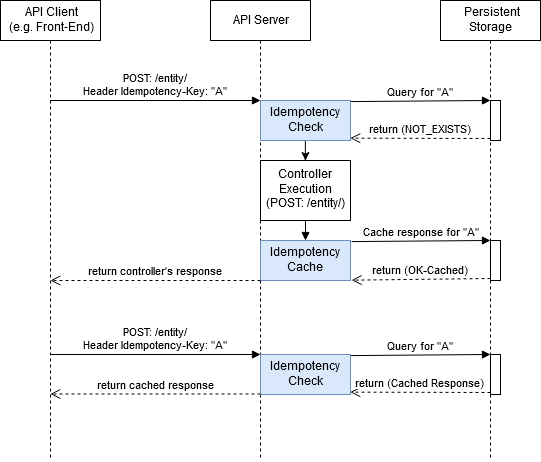
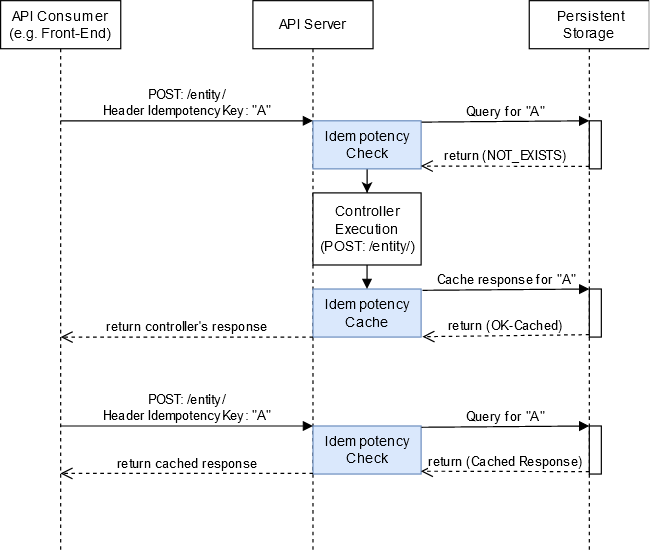
Improve readme file

diff --git a/README.md b/README.md
@@ -1,115 +1,174 @@
-# Idempotent API <sup>BETA</sup>
+# Idempotent API <sup>BETA</sup>
 
-An idempotent HTTP method is a HTTP method that can be called many times without different outcomes. Safe methods are HTTP methods that do not modify resources. Idempotent API is an ASP.NET Core attribute by which any HTTP write operations (POST and PATCH) can have effect only once for the given request data.
+A [distributed system](https://en.wikipedia.org/wiki/Distributed_computing) consists of multiple components located on different networked computers, which communicate and coordinate their actions by passing messages to one another from any system. For example, I am sure that you have heard of the [microservices](https://microservices.io/) architecture, which is a kind of distributed system.
 
-| HTTP Method | Idempotent? | Safe? | Description                                                  |
-| ----------- | ----------- | ----- | ------------------------------------------------------------ |
-| GET         | Yes         | Yes   | The safe HTTP methods do not modify resources. Thus, multiple calls to the resource will always return the same response. |
-| OPTIONS     | Yes         | Yes   | --//--                                                       |
-| HEAD        | Yes         | Yes   | --//--                                                       |
-| PUT         | Yes         | No    | The PUT method is idempotent, as calling the PUT method multiple times will update the same resource and not change the outcome. |
-| DELETE      | Yes         | No    | The DELETE is idempotent because once the resource is deleted, it is gone and calling the method multiple times will not change the outcome |
-| POST        | **No**      | No    | Calling the POST method multiple times can have different results and will result in creating new resources. For that reason, the POST method is **not** idempotent. |
-| PATCH       | **No**      | No    | The PATCH method can be idempotent, but it isn't required to be. For that reason, it is characterized as **non**-idempotent. |
+Creating Web APIs for distributed systems is challenging because of distribution pitfalls such as process failures, communication failures, asynchrony, and concurrency. When building [fault-tolerant distributed applications](https://www.microsoft.com/en-us/research/publication/fault-tolerance-via-idempotence/), one common requirement and challenge is the need to be idempotent.
 
-## How it works
+- In mathematics and computer science, an operation is [idempotent](https://en.wikipedia.org/wiki/Idempotence) when applied multiple times without changing the result beyond the initial application.
+- [Fault-tolerant](https://en.wikipedia.org/wiki/Software_fault_tolerance) applications can continue operating despite the system, hardware, and network faults of one or more components, ensuring [high availability](https://en.wikipedia.org/wiki/High_availability_software) and [business continuity](https://en.wikipedia.org/wiki/Business_continuity_planning) for critical applications or systems.
 
-The API client (e.g. a Front-End website) sends a request including an Idempotency-Key header (default: IdempotencyKey) with a unique-identifier value. The API server checks if that unique-identifier has been used previously for that request and either return the cached response (without further execution) or save-cache the response along with the unique-identifier. The cached response includes the HTTP status code and the response body and headers. 
+Idempotence in Web APIs ensures that the API works correctly (as designed) even when consumers (clients) send the same request multiple times. For example, this case can happen when the API failed to generate the response (due to process failures, temporary downtime, etc.) or because the response was generated but could not be transferred (network issues).
 
-The IdempotentAPI library performs additional validation of the request's hash-key in order to be sure that the cached response is returned for the same combination of IdempotencyKey and Request to prevent accidental misuse.
+Imagine a scenario in which the user clicks a “Pay” button to make a purchase. For unknown reasons, the user receives an error, but the payment was completed. If the user clicks the “Pay” button again or the request is re-sent by a retry library, we would result in two payments! Using idempotency, the user will get a successful message (e.g., on the second try), but only one charge would be performed.
 
-The following image shows an example of the IdempotentAPI library flow for two same POST requests. As shown in this image, IdempotentAPI library includes two additional steps, one prior to the controller's execution and one after the construction of the controller's response.
+Creating Idempotent Web APIs is the first step before using a resilient and transient-fault-handling library, such as [Polly](https://github.com/App-vNext/Polly). The Polly .NET library allows developers to express policies such as Retry, Circuit Breaker, Timeout, Bulkhead Isolation, and Fallback in a fluent and thread-safe manner.
 
-![IdempotentAPI library flow example](./etc/IdempotentAPI_FlowExample.png)
+This article presents an effort to create the IdempotentAPI library, which provides an easy way to develop idempotent Web APIs. In the following sections, we will see the idempotency in the different HTTP methods, how the IdempotentAPI library works, its code, and finally, how to use the IdempotentAPI NuGet package.
 
-### Persistent Storage and Cache Expiration
 
-The unique-identifiers and their responding result are stored in a persistent storage (e.g. database, file, Redis, etc.). Although this mechanism of saving the data can be very useful, if the data is not expired after a certain period of time, it includes unneeded complexity from the perspective of data storage, security and scaling. The data should have a retention period that makes sense for your problem domain.
 
-### Idempotent Clients
+## Idempotency in HTTP (Web)
 
-- An idempotency key is a unique value generated by the client which the server uses to recognize subsequent retries of the same request.
-- It is suggested to use "[V4 UUIDs](https://en.wikipedia.org/wiki/Universally_unique_identifier)" for the creation of the idempotency unique keys.
-- It is recommended to use techniques like [exponential backoff and random jitter](https://aws.amazon.com/blogs/architecture/exponential-backoff-and-jitter/).
+HTTP defines a set of request [methods](https://developer.mozilla.org/en-US/docs/Web/HTTP/Methods) (HTTP verbs: GET, POST, PUT, PATCH, etc.) to indicate the desired action to be performed for a given resource. An idempotent HTTP method can be called many times without resulting in different outcomes. Safe methods are HTTP methods that do not modify the resources. In Table 1, we can see details about which HTTP methods are idempotent or/and safe.
 
-## NuGet package
+Table 1. - Idempotent or/and Safe HTTP methods (verbs).
 
-IdempotentAPI library is available as a NuGet package. The NuGet package can be accessed [here](https://www.nuget.org/packages/IdempotentAPI/).
+| **HTTP Method** | **Idempotent** | **Safe** | **Description**                                              |
+| --------------- | -------------- | -------- | ------------------------------------------------------------ |
+| GET             | Yes            | Yes      | Safe HTTP methods do not modify resources. Thus, multiple calls  with this method will always return the same response. |
+| OPTIONS         | Yes            | Yes      | Same as the previous HTTP method.                            |
+| HEAD            | Yes            | Yes      | Same as the previous HTTP method.                            |
+| PUT             | Yes            | No       | The PUT HTTP method is idempotent because calling this HTTP  method multiple times (with the same request data) will update the same  resource and not change the outcome. |
+| DELETE          | Yes            | No       | The DELETE HTTP method is idempotent because calling this HTTP  method multiple times will only delete the resource once. Thus, numerous  calls of the DELETE HTTP method will not change the outcome. |
+| POST            | **No**         | No       | Calling the POST method multiple times can have different  results and will create multiple resources. For that reason, the POST method  is **not**  idempotent. |
+| PATCH           | **No**         | No       | The PATCH method can be idempotent depending on the  implementation, but it isn’t required to be. For that reason, the PATCH  method is **not**  idempotent. |
 
-## Configuration
+ 
 
-### Register the Distributed Cache (as Persistent Storage)
+The creation of an `idempotent consumer` is an essential factor in HTTP idempotency. The API server would need a way to recognize subsequent retries of the same request. Commonly, the consumer generates a unique value, called [idempotency-key](https://tools.ietf.org/id/draft-idempotency-header-01.html#section-2), which the API server uses for that purpose. In addition, when building an idempotent consumer, it is recommended to:
 
-Register an implementation of IDistributedCache in Startup.ConfigureServices (such as Memory Cache, SQL Server cache, Redis cache, etc.). For more details see the "[Distributed caching in ASP.NET Core](https://docs.microsoft.com/en-us/aspnet/core/performance/caching/distributed)" article.
+- Use "[V4 UUIDs](https://en.wikipedia.org/wiki/Universally_unique_identifier)" for the creation of the idempotency unique keys (e.g. “07cd2d27-e0dc-466f-8193-28453e9c3023”).
+- Use techniques like the [exponential backoff and random jitter](https://aws.amazon.com/blogs/architecture/exponential-backoff-and-jitter/), i.e., including an exponential and random delay between continuous requests.
+
+ 
+
+## The IdempotentAPI Library
+
+The IdempotentAPI is an open-source NuGet library, which implements an ASP.NET Core attribute ([filter](https://www.dotnetnakama.com/blog/creating-and-testing-asp-dotnet-core-filter-attributes/)) to handle the HTTP write operations (POST and PATCH) that can affect only once for the given request data and idempotency-key.
+
+### How IdempotentAPI Works
+
+The API consumer (e.g., a Front-End website) sends a request including an Idempotency-Key header unique identifier (default name: IdempotencyKey). The API server checks if that unique identifier has been used previously for that request and either returns the cached response (without further execution) or save-cache the response along with the unique identifier. The cached response includes the HTTP status code, the response body, and headers.
+
+Storing data is necessary for idempotency, but if the data are not expired after a certain period, it will include unneeded complexity in data storage, security, and scaling. Therefore, the data should have a retention period that makes sense for your problem domain.
+
+The IdempotentAPI library performs additional validation of the request’s hash-key to ensure that the cached response is returned for the same combination of Idempotency-Key and Request to prevent accidental misuse.
+
+The following figure shows an example of the IdempotentAPI library flow for two exact POST requests. As shown, the IdempotentAPI library includes two additional steps, one before the controller’s execution and one after constructing the controller’s response.
+
+![An example of handling two exact POST requests.](./etc/IdempotentAPI_FlowExample.png)
+ 
+
+### The Source Code
+
+Let’s have a quick look at the projects and the main code files.
+
+- **/Core/Idempotency.cs**: The core implementation containing the idempotency logic applied before and after the request’s execution.
+- **/Filters/IdempotencyAttributeFilter.cs**: The filter implementation (of `IActionFilter` and `IResultFilter`) uses the core implementation on specific steps of the filter pipeline execution flow.
+- **/Filters/IdempotencyAttribute.cs**: The idempotency attribute implementation for its input options and to initialize the idempotency filter.
+- **/Helpers/Utils.cs**: Several helper static functions for serialization, hashing, and compression.
+
+
+
+## IdempotentAPI NuGet package
+
+The IdempotentAPI library is available as a [NuGet package](https://www.nuget.org/packages/IdempotentAPI/). This section shows how we could use the NuGet package in a Web API project. For more examples, you can check the [sample projects](https://github.com/ikyriak/IdempotentAPI/tree/master/samples).
+
+### Step 1: Register the Distributed Cache (as Persistent Storage)
+
+As we have seen, storing-caching data is necessary for idempotency. Therefore, the IdempotentAPI library needs an implementation of the `IDistributedCache` to be registered in the `Startup.ConfigureServices` method (such as Memory Cache, SQL Server cache, Redis cache, etc.). For more details about the available framework-provided implementations, see the [Distributed caching in the ASP.NET Core](https://docs.microsoft.com/en-us/aspnet/core/performance/caching/distributed?view=aspnetcore-5.0#establish-distributed-caching-services) article.
 
 ```c#
-// For example, to use memory cache
+// We could use a memory cache for development purposes.
 services.AddDistributedMemoryCache();
 ```
 
-### Mark DTOs as Serializable
+### Step 2: Decorate Response Classes as Serializable
 
-Mark all the response DTOs models as Serializable in order to be cached. For example, see the code below.
+The response Data Transfer Objects (DTOs) need to be serialized before caching. For that reason, we will have to decorate the relative DTOs as `[Serializable]`. For example, see the code below.
 
 ```c#
 using System;
 
-namespace WeatherForecastAPI.Core.Application.Services.DTOs
+namespace WebApi_3_1.DTOs
 {
     [Serializable]
-    public class WeatherForecastModel
+    public class SimpleResponse
     {
-        public DateTime Date { get; set; }
-        public int TemperatureC { get; set; }
-        public string Summary { get; set; }
+        public int Id { get; set; }
+        public string Message { get; set; }
+        public DateTime CreatedOn { get; set; }
     }
 }
-
 ```
 
-#### Configure the API Controllers
 
-In your `Controller` class, add the following using statement and then, choose the Idempotent operations by setting the `Idempotent()` attribute, either on the controller's Class or on each action.
+
+### Step 3: Set Controller Operations as Idempotent
+
+In your `Controller` class, add the following using statement. Then choose which operations should be Idempotent by setting the `[Idempotent()]` attribute, either on the controller’s class or on each action separately. The following two sections describe these two cases.
 
 ```c#
 using IdempotentAPI.Filters;
 ```
 
-##### Using the Idempotent attribute on a Controller's Class
+#### Using the Idempotent Attribute on a Controller’s Class
 
-By using the  Idempotent attribute on the API Controller's Class, `ALL` the POST and PATCH actions will be Idempotent operations (requiring the IdempotencyKey header).
+By using the Idempotent attribute on the API Controller’s Class, `all` the POST and PATCH actions will work as idempotent operations (requiring the IdempotencyKey header).
 
 ```c#
 [ApiController]
 [Route("[controller]")]
-[Idempotent()]
-public class WeatherForecastController : ControllerBase
+[Consumes("application/json")]
+[Produces("application/json")]
+[Idempotent(Enabled = true)]
+public class SimpleController : ControllerBase
 {
-	// ...
+    // ...
 }
 ```
 
-##### Using the Idempotent attribute on a Controller's Action
+ 
 
-By using the Idempotent attribute on the actions that support the HTTP POST or PATCH methods, you can select which specific actions will be Idempotent and also set different options.
+#### Using the Idempotent Attribute on a Controller’s Action
+
+By using the Idempotent attribute on each action (HTTP POST or PATCH), we can choose which of them should be Idempotent. In addition, we could use the Idempotent attribute to set different options per action.
 
 ```c#
 [HttpPost]
 [Idempotent(ExpireHours = 48)]
-public Task<IActionResult> Create([FromBody] WeatherForecast weatherForecastDto)
+ublic IActionResult Post([FromBody] SimpleRequest simpleRequest)
 {
-	// ...
+    // ...
 }
 ```
 
-#### Idempotent Attribute Options
+ 
 
-| Name                       | Type   | Default Value  | Description                                                  |
-| -------------------------- | ------ | -------------- | ------------------------------------------------------------ |
-| Enabled                    | bool   | true           | Enable or Disable the Idempotent operation on an API Controller's class or method. |
-| ExpireHours                | int    | 24             | The retention period of the cached idempotent data.          |
-| HeaderKeyName              | string | IdempotencyKey | The name of the Idempotency-Key header.                      |
-| DistributedCacheKeysPrefix | string | IdempAPI_      | A prefix for the key names that will be used in the DistributedCache. |
+### Idempotent Attribute Options
+
+The Idempotent attribute provides a list of options, as shown in the following table.
+
+Table 2. - Idempotent attribute options
+
+| **Name**                   | **Type** | **Default Value** | **Description**                                              |
+| -------------------------- | -------- | ----------------- | ------------------------------------------------------------ |
+| Enabled                    | bool     | true              | Enable or Disable the Idempotent operation on an API Controller’s  class or method. |
+| ExpireHours                | int      | 24                | The retention period (in hours) of the idempotent cached data. |
+| HeaderKeyName              | string   | IdempotencyKey    | The name of the Idempotency-Key header.                      |
+| DistributedCacheKeysPrefix | string   | IdempAPI_         | A prefix for the DistributedCache key names.                 |
+
+ 
+
+## Summary
+
+A distributed system consists of multiple components located on different networked computers, which communicate and coordinate their actions by passing messages to one another from any system. Fault-tolerant applications can continue operating despite the system, hardware, and network faults of one or more components.
+
+Idempotence in Web APIs ensures that the API works correctly (as designed) even when consumers (clients) send the same request multiple times. Applying idempotency in your APIs is the first step before using a resilient and transient-fault-handling library, such as [Polly](https://github.com/App-vNext/Polly).
+
+The `IdempotentAPI` is an open-source [NuGet library](https://www.nuget.org/packages/IdempotentAPI/), which implements an ASP.NET Core attribute (filter) to handle the HTTP write operations (POST and PATCH) that can affect only once for the given request data and idempotency-key. In this article, we have seen how the IdempotentAPI library works, its code, and finally, how to use the IdempotentAPI NuGet package.
+
+For ensuring high availability and business continuity for critical Web APIs, the `IdempotentAPI` library is your first step 😉. IdempotentAPI is open-source (MIT licensed)! So, any help in coding, suggestions, sharing this article, giving a GitHub Star, etc., are welcome.
 
 
 ## License
